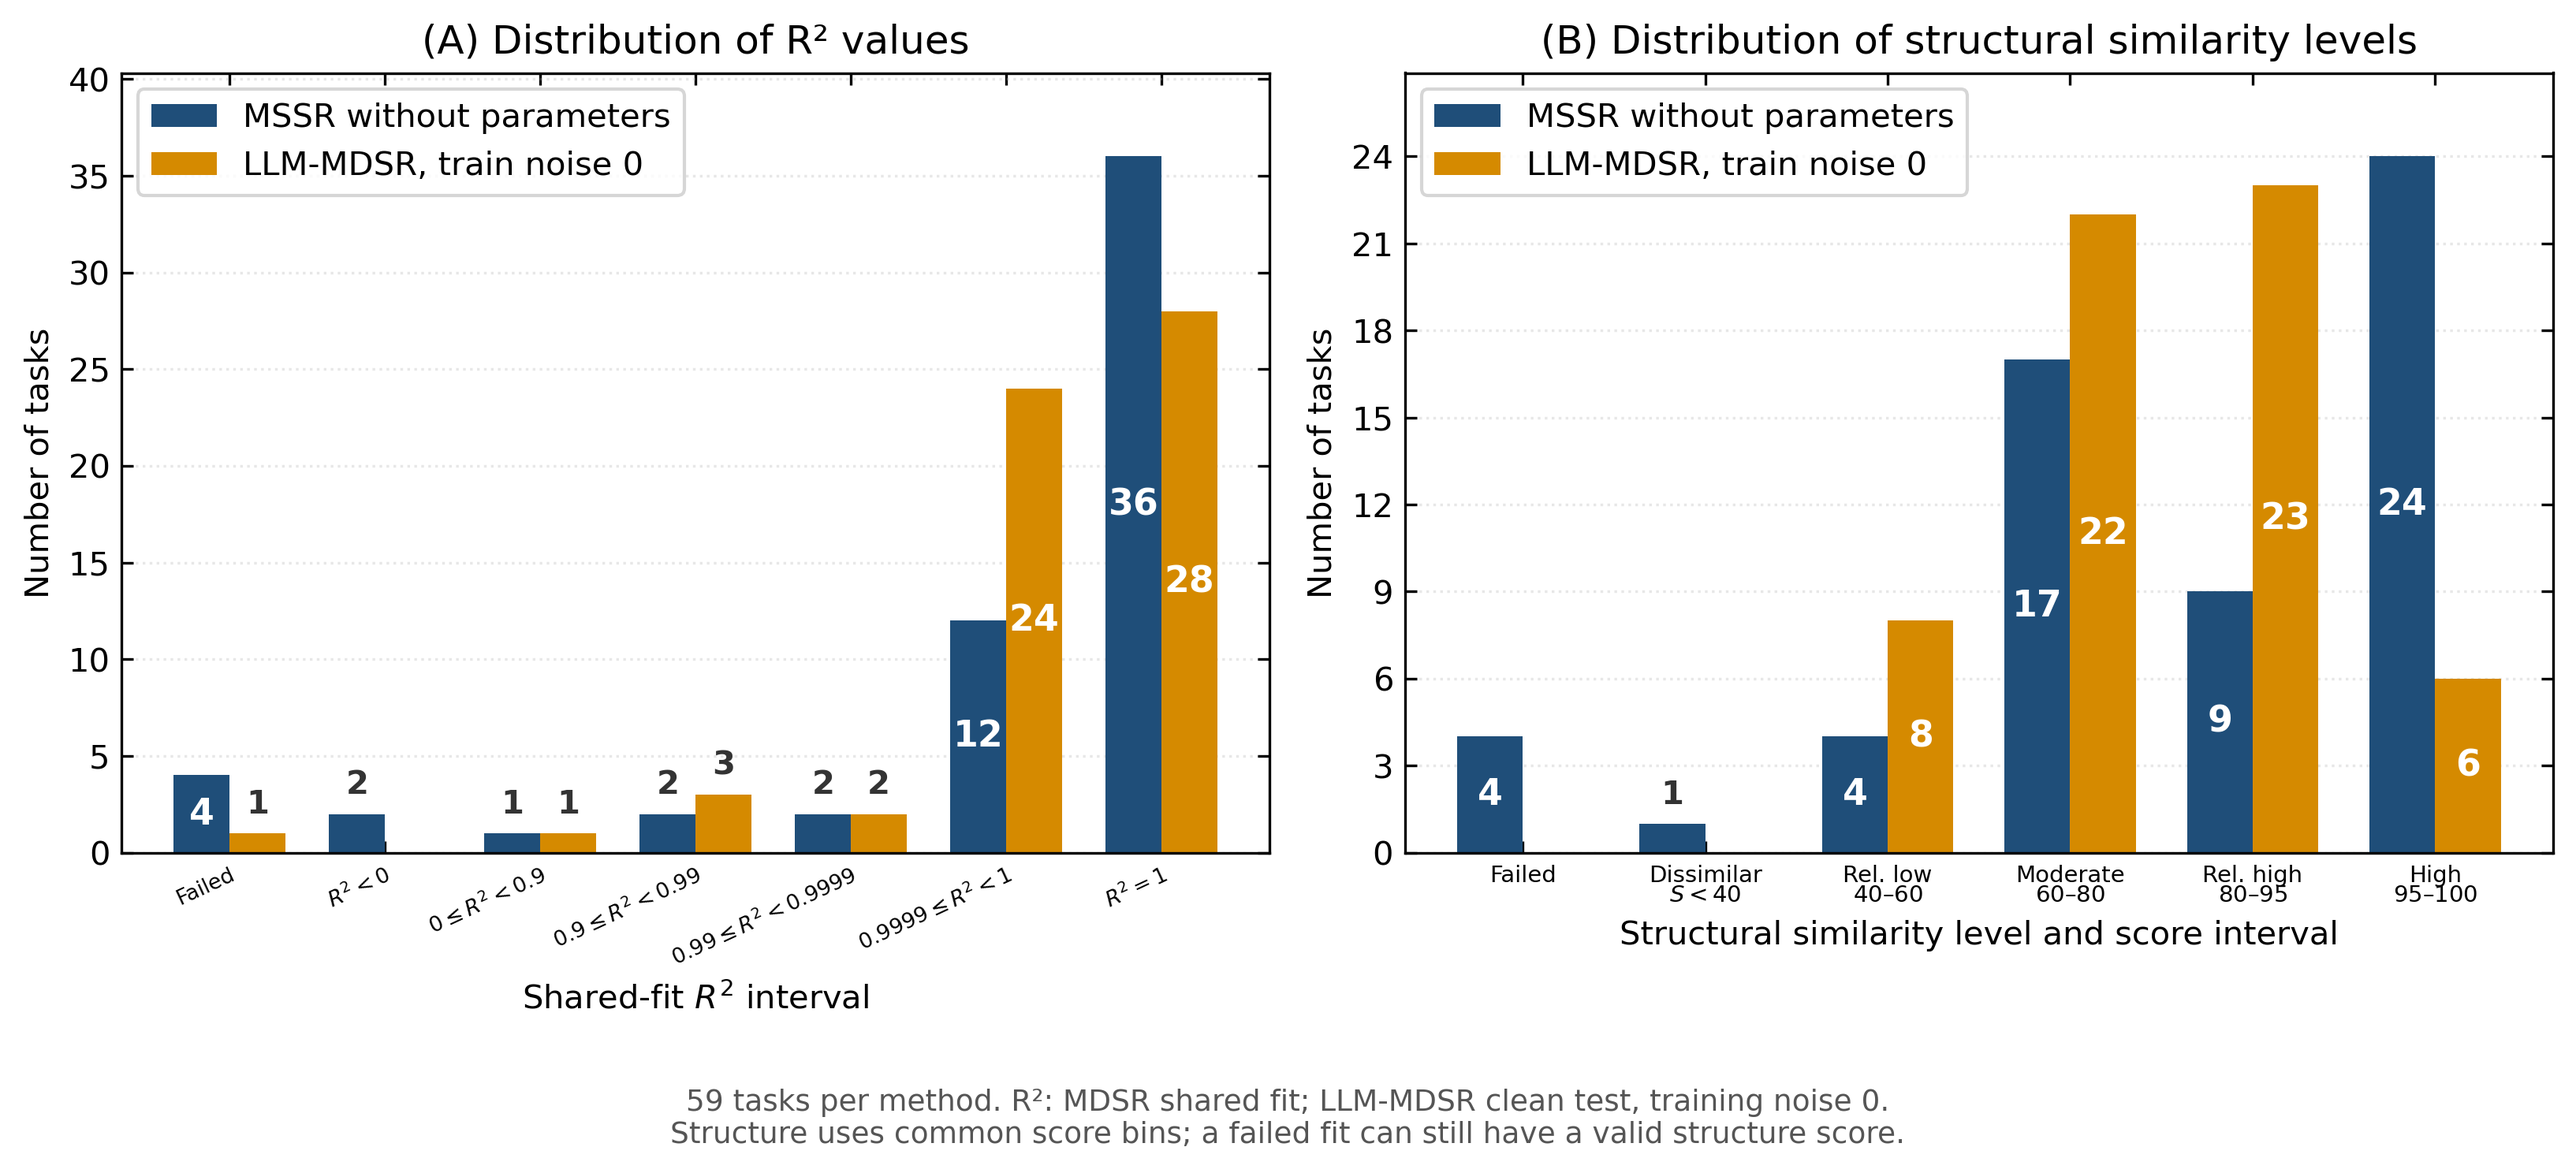
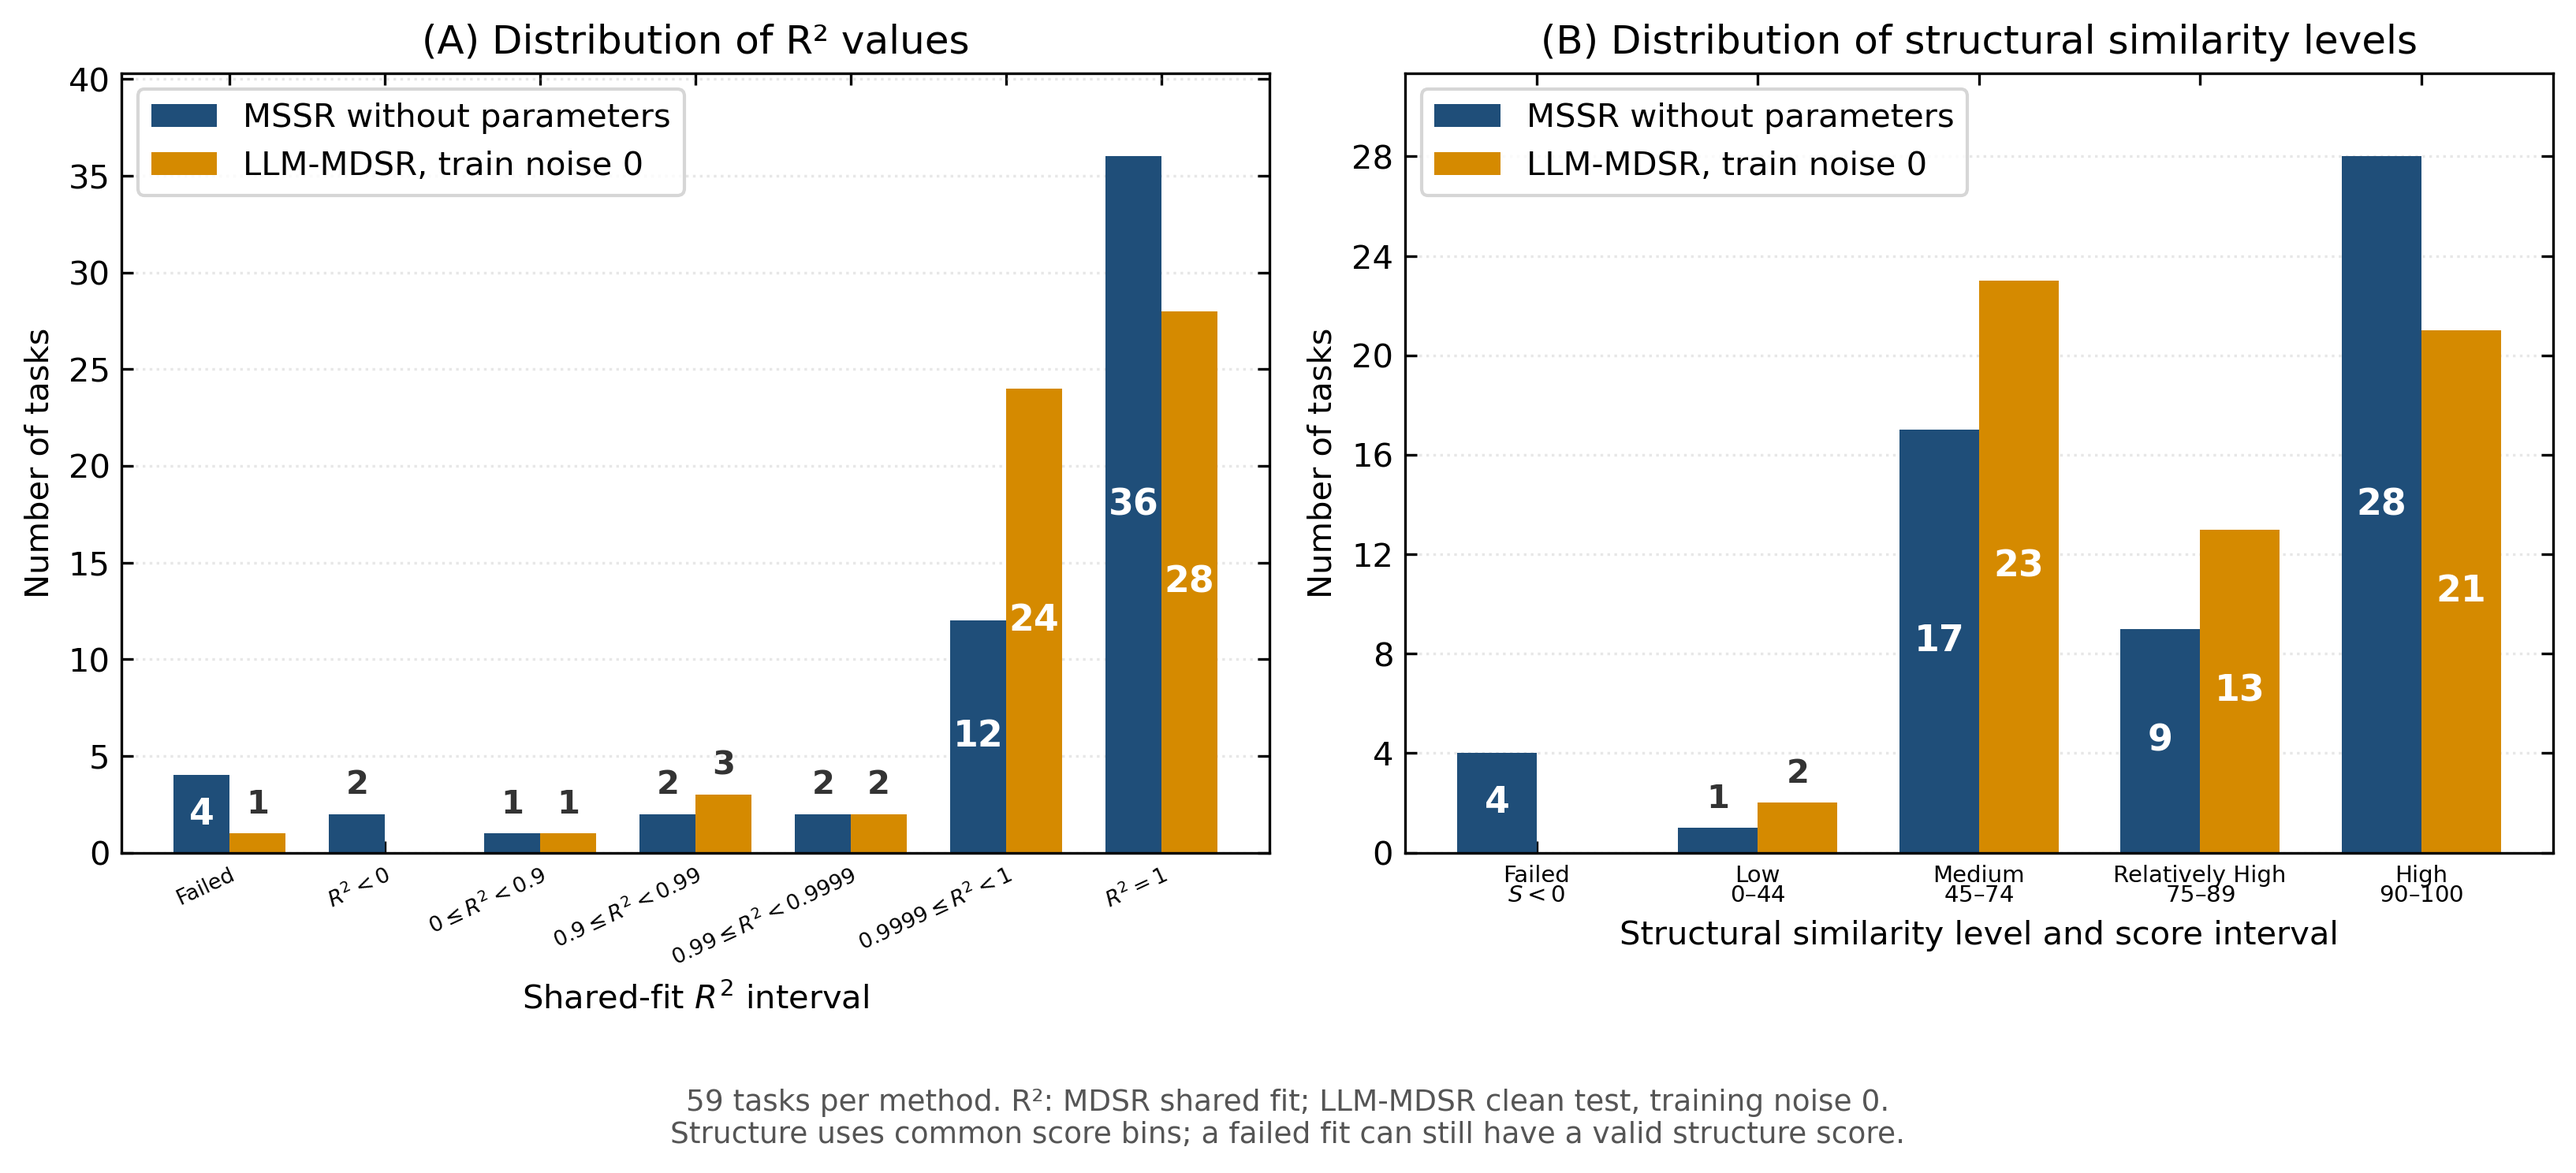
Save child

Changed region(s): [[0.562, 0.1237, 0.9991, 0.7728], [0.5308, 0.5565, 0.562, 0.5874], [0.5308, 0.2782, 0.562, 0.3091]]

diff --git a/plot/drawfigure.py b/plot/drawfigure.py
@@ -2,7 +2,6 @@ import argparse
 import math
 import os
 import tempfile
-from collections import Counter
 from pathlib import Path
 
 import numpy as np
@@ -358,19 +357,6 @@ ids = (
     .to_numpy()
 )
 
-levels = (
-    df["structure_similarity_level"]
-    .astype(str)
-    .to_numpy()
-)
-
-with_parameter_levels = (
-    with_parameter_df["structure_similarity_level"]
-    .astype(str)
-    .to_numpy()
-)
-
-
 def numeric_column(name):
 
     return pd.to_numeric(
@@ -680,68 +666,34 @@ def set_r2_transformed_axis(ax):
 # Structural similarity categories
 # ============================================================
 
-level_map = {
-    "高度相似": "High",
-    "较高相似": "Relatively high",
-    "中等相似": "Moderate",
-    "较低相似": "Relatively low",
-    "不相似": "Dissimilar",
-}
-
-level_order_cn = [
-    "高度相似",
-    "较高相似",
-    "中等相似",
-    "较低相似",
-    "不相似",
-]
-
 level_order_en = [
-    level_map[x]
-    for x in level_order_cn
+    "High",
+    "Relatively High",
+    "Medium",
+    "Low",
 ]
 
 level_labels_with_criteria = [
-    "Failed\n($R^2 = -\\infty$)",
-    "Dissimilar\n($S < 40$)",
-    "Relatively low\n($40 \\leq S < 60$)",
-    "Moderate\n($60 \\leq S < 80$)",
-    "Relatively high\n($80 \\leq S < 95$)",
-    "High\n($95 \\leq S \\leq 100$)",
+    "Failed\n($S < 0$)",
+    "Low\n($0$–$44$)",
+    "Medium\n($45$–$74$)",
+    "Relatively High\n($75$–$89$)",
+    "High\n($90$–$100$)",
 ]
 
-counts = Counter(
-    levels
-)
+def structure_distribution_counts(scores):
+    valid = scores[np.isfinite(scores) & (scores >= 0)]
+    if np.any(valid > 100):
+        raise ValueError("Structural similarity score exceeds 100.")
+    counts = np.histogram(valid, bins=[0, 45, 75, 90, 100.0000001])[0]
+    return [len(scores) - len(valid), *counts.tolist()]
 
-level_counts = [
-    counts.get(
-        x,
-        0,
-    )
-    for x in level_order_cn
-]
 
-with_parameter_counts = Counter(
-    with_parameter_levels
+fig1_level_counts = structure_distribution_counts(sim)
+fig1_with_parameter_level_counts = structure_distribution_counts(
+    with_parameter_sim
 )
-
-with_parameter_level_counts = [
-    with_parameter_counts.get(
-        level,
-        0,
-    )
-    for level in level_order_cn
-]
-
-fig1_level_counts = (
-    [counts.get("Failed", 0)]
-    + list(reversed(level_counts))
-)
-fig1_with_parameter_level_counts = (
-    [with_parameter_counts.get("Failed", 0)]
-    + list(reversed(with_parameter_level_counts))
-)
+level_counts = list(reversed(fig1_level_counts[1:]))
 
 
 # ============================================================
@@ -2304,8 +2256,8 @@ combined_r2_labels = [
     "$0.9999 \\leq R^2 < 1$", "$R^2 = 1$",
 ]
 combined_structure_labels = [
-    "Failed", "Dissimilar\n$S<40$", "Rel. low\n$40$–$60$",
-    "Moderate\n$60$–$80$", "Rel. high\n$80$–$95$", "High\n$95$–$100$",
+    "Failed\n$S < 0$", "Low\n$0$–$44$", "Medium\n$45$–$74$",
+    "Relatively High\n$75$–$89$", "High\n$90$–$100$",
 ]
 
 combined_plots = [

diff --git a/plot/plot_llm_sr_comparison.py b/plot/plot_llm_sr_comparison.py
@@ -41,8 +41,8 @@ R2_LABELS = [
     "$0.9999 \\leq R^2 < 1$", r"$R^2 = 1$",
 ]
 STRUCTURE_LABELS = [
-    "Failed", "Dissimilar\n$S<40$", "Rel. low\n$40$–$60$",
-    "Moderate\n$60$–$80$", "Rel. high\n$80$–$95$", "High\n$95$–$100$",
+    "Failed\n$S < 0$", "Low\n$0$–$44$", "Medium\n$45$–$74$",
+    "Relatively High\n$75$–$89$", "High\n$90$–$100$",
 ]
 
 
@@ -98,7 +98,12 @@ def r2_counts(values):
 
 
 def structure_counts(values):
-    return distribution_counts(values, [0, 40, 60, 80, 95, 100])
+    values = pd.to_numeric(pd.Series(values), errors="coerce")
+    valid = values[np.isfinite(values) & (values >= 0)]
+    if (valid > 100).any():
+        raise ValueError("Structural similarity score exceeds 100.")
+    counts = np.histogram(valid, bins=[0, 45, 75, 90, 100.0000001])[0]
+    return np.r_[len(values) - len(valid), counts]
 
 
 def style_axis(ax):
